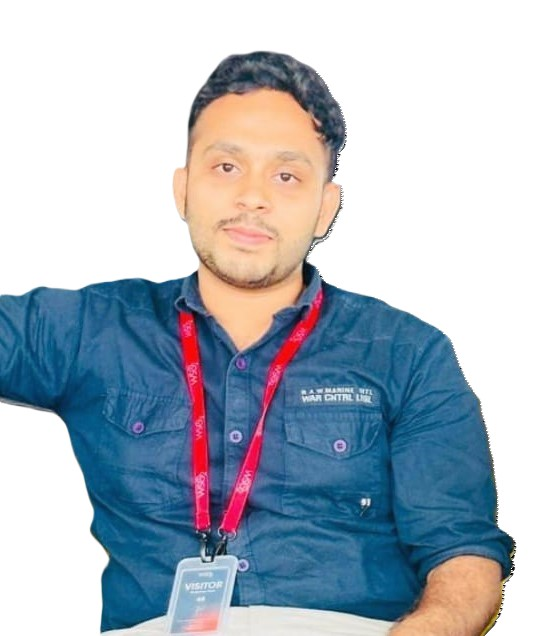
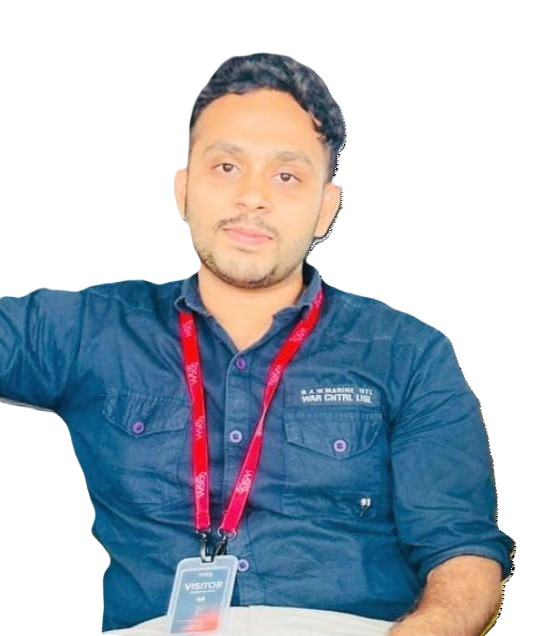
16th

diff --git a/components/intro.tsx b/components/intro.tsx
@@ -41,7 +41,7 @@ export default function Intro() {
             }}
           >
             <Image
-              src="/asam4.jpg"
+              src="/asam3.png"
               alt="mohamed asam"
               width="300"
               height="200"
